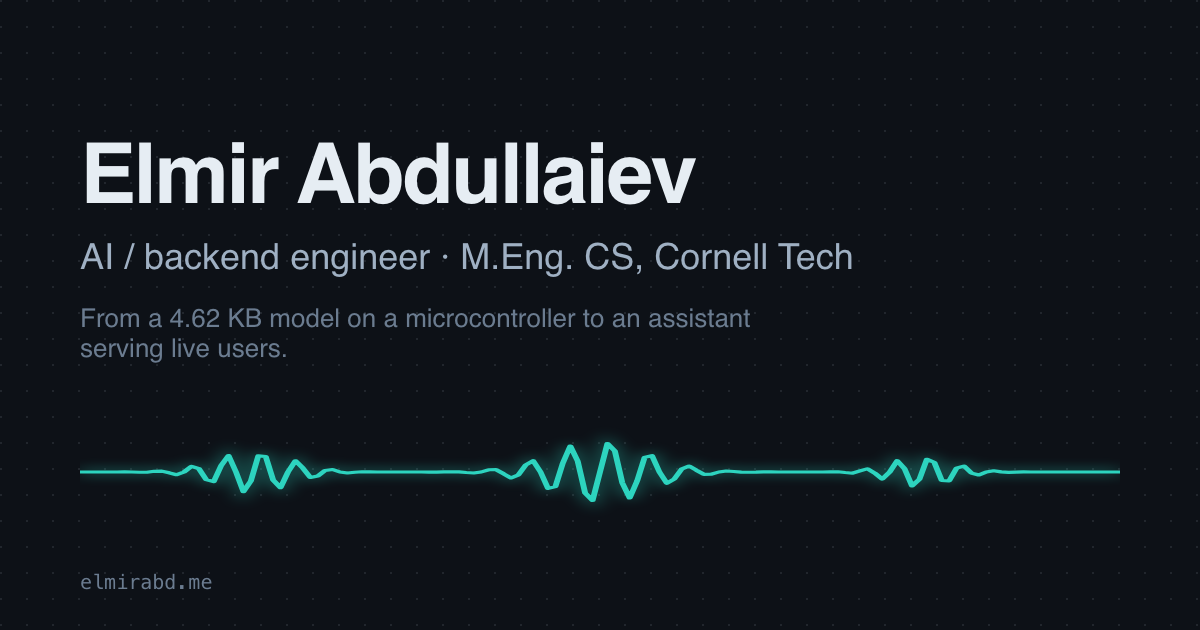
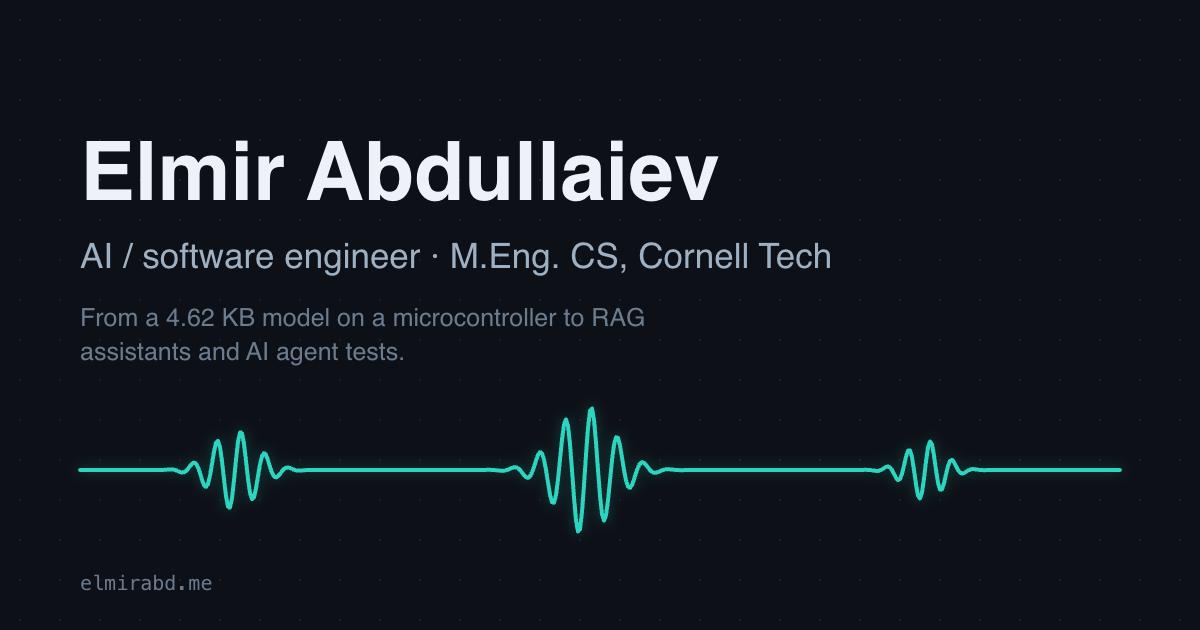
Site: AI and software engineer in the title, hero and link preview; drop production claim

diff --git a/index.html b/index.html
@@ -3,17 +3,17 @@
 <head>
 <meta charset="UTF-8">
 <meta name="viewport" content="width=device-width, initial-scale=1">
-<title>Elmir Abdullaiev | AI &amp; Backend Engineer</title>
-<meta name="description" content="Elmir Abdullaiev, AI and backend engineer and M.Eng. Computer Science candidate at Cornell Tech. Published TinyML research, production LLM/RAG systems, security tooling.">
-<meta property="og:title" content="Elmir Abdullaiev | AI &amp; Backend Engineer">
-<meta property="og:description" content="Published TinyML research, production LLM/RAG systems and security tooling. M.Eng. CS at Cornell Tech.">
+<title>Elmir Abdullaiev | AI &amp; Software Engineer</title>
+<meta name="description" content="Elmir Abdullaiev, AI and software engineer and M.Eng. Computer Science candidate at Cornell Tech. Published TinyML research, LLM and RAG systems, security tooling.">
+<meta property="og:title" content="Elmir Abdullaiev | AI &amp; Software Engineer">
+<meta property="og:description" content="Published TinyML research, LLM and RAG systems and security tooling. M.Eng. CS at Cornell Tech.">
 <meta property="og:type" content="website">
 <meta property="og:url" content="https://elmirabd.me/">
-<meta property="og:image" content="https://elmirabd.me/og-image.png">
+<meta property="og:image" content="https://elmirabd.me/og-image.png?v=2">
 <meta property="og:image:width" content="1200">
 <meta property="og:image:height" content="630">
 <meta name="twitter:card" content="summary_large_image">
-<meta name="twitter:image" content="https://elmirabd.me/og-image.png">
+<meta name="twitter:image" content="https://elmirabd.me/og-image.png?v=2">
 <link rel="canonical" href="https://elmirabd.me/">
 <link rel="icon" href="/favicon.ico" sizes="48x48">
 <link rel="icon" href="/icon-192.png" type="image/png" sizes="192x192">
@@ -111,8 +111,8 @@ footer { margin-top:48px; border-top:1px solid var(--line); padding:26px 0 40px;
   <div class="wrap">
     <div>
       <h1>Elmir Abdullaiev</h1>
-      <p class="role">AI / backend engineer · M.Eng. CS, Cornell Tech</p>
-      <p class="tag">From a 4.62 KB model on a microcontroller to an assistant serving live users.</p>
+      <p class="role">AI / software engineer · M.Eng. CS, Cornell Tech</p>
+      <p class="tag">From a 4.62 KB model on a microcontroller to RAG assistants and AI agent tests.</p>
       <div class="btns">
         <a class="btn" href="https://github.com/elmir132"><svg viewBox="0 0 16 16" aria-hidden="true"><path d="M8 0a8 8 0 0 0-2.5 15.6c.4.1.5-.2.5-.4v-1.4c-2.2.5-2.7-1-2.7-1-.4-.9-.9-1.2-.9-1.2-.7-.5.1-.5.1-.5.8.1 1.2.8 1.2.8.7 1.2 1.9.9 2.3.7.1-.5.3-.9.5-1.1-1.8-.2-3.6-.9-3.6-4 0-.9.3-1.6.8-2.1-.1-.2-.4-1 .1-2.1 0 0 .7-.2 2.2.8a7.5 7.5 0 0 1 4 0c1.5-1 2.2-.8 2.2-.8.4 1.1.2 1.9.1 2.1.5.6.8 1.3.8 2.1 0 3.1-1.9 3.8-3.6 4 .3.3.5.8.5 1.5v2.2c0 .2.1.5.6.4A8 8 0 0 0 8 0z"/></svg>GitHub</a>
         <a class="btn" href="https://www.linkedin.com/in/elmirabd/"><svg viewBox="0 0 16 16" aria-hidden="true"><path d="M1 5.5h3V15H1zM2.5 1a1.7 1.7 0 1 1 0 3.4 1.7 1.7 0 0 1 0-3.4zM6 5.5h2.9v1.3c.4-.8 1.4-1.5 2.9-1.5 3 0 3.6 2 3.6 4.600V15h-3v-4.500c0-1.100 0-2.400-1.500-2.400s-1.700 1.100-1.700 2.300V15H6z"/></svg>LinkedIn</a>
